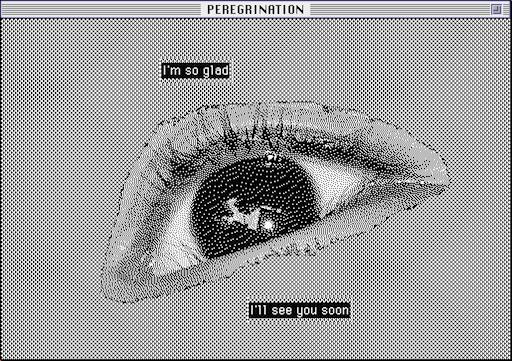
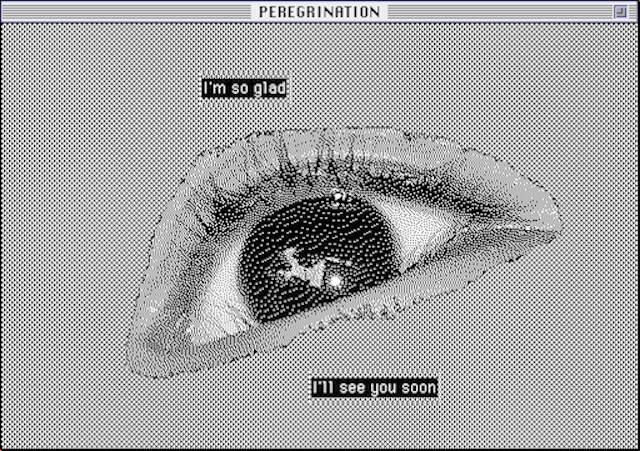
adjust more aspect ratios

diff --git a/p_gamedev.html b/p_gamedev.html
@@ -113,7 +113,7 @@
   <!-- Perigrination -->
   <div class="box">
     <h2><a href="https://miredly.itch.io/peregrination">Peregrination</a></h2>
-    <img class="contained" src="img/game_screens/Perigrination.png" />
+    <img class="contained" src="img/game_screens/Perigrination_Portfolio.png" />
     <p><b>Made with</b>: <i>Hypercard</i></p>
     <p><b>Roles:</b> <i>Writing, Art, Design & Implementation</i></p>
     <p>
